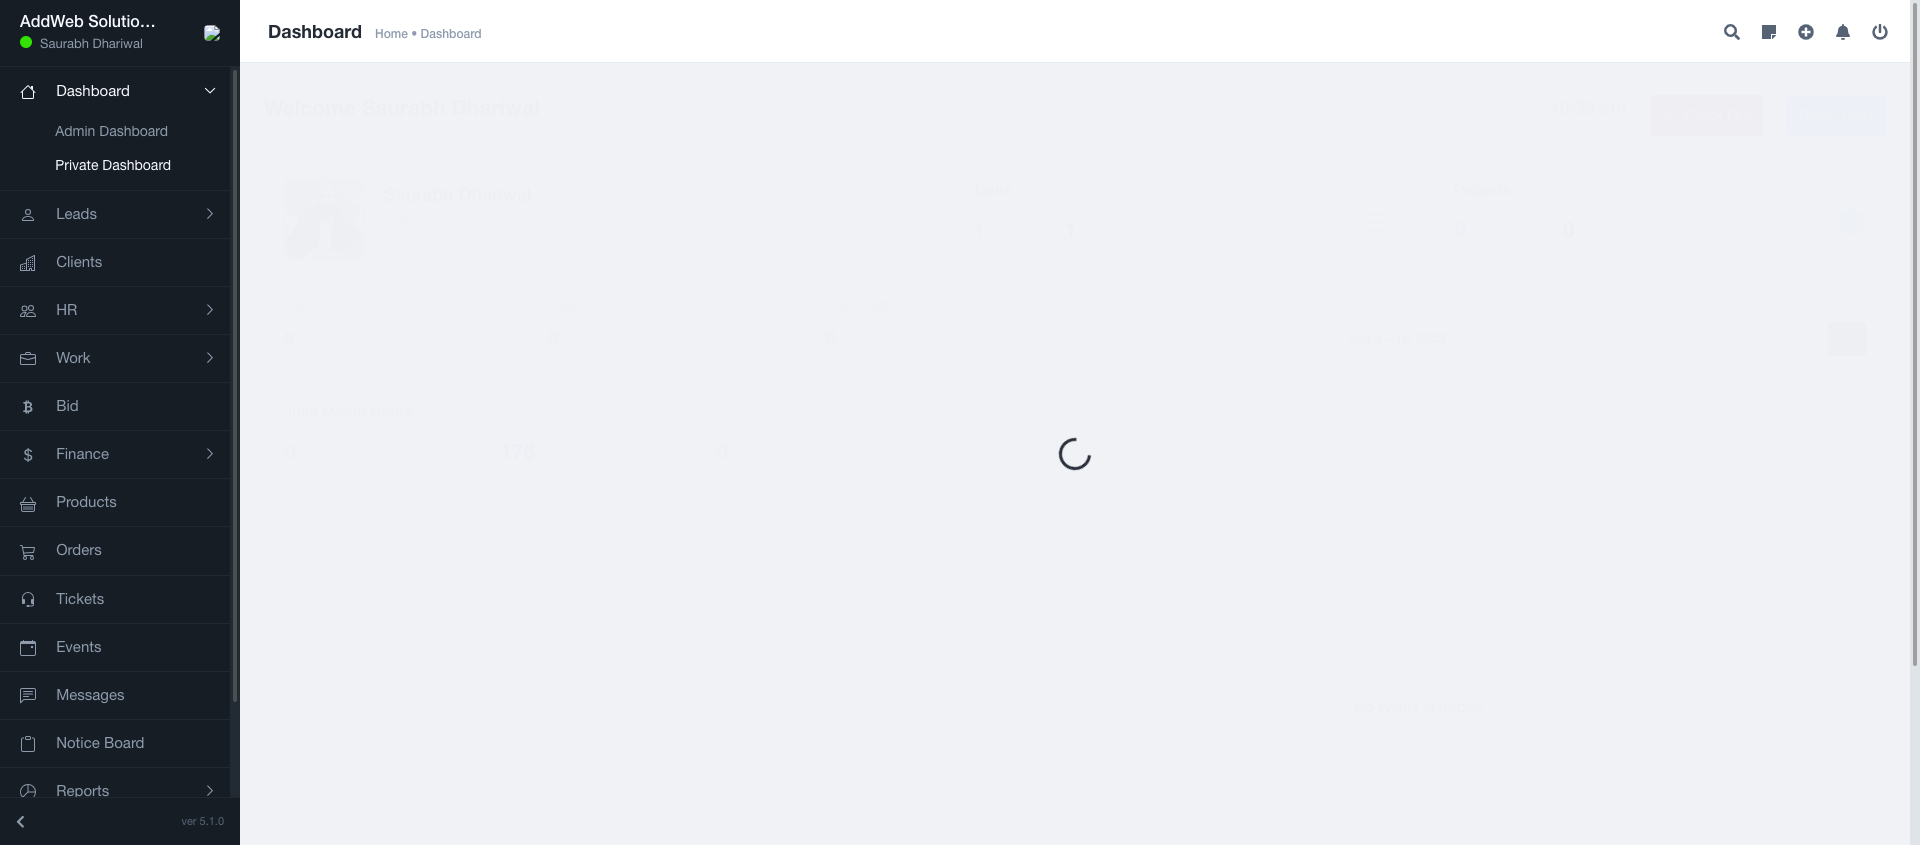
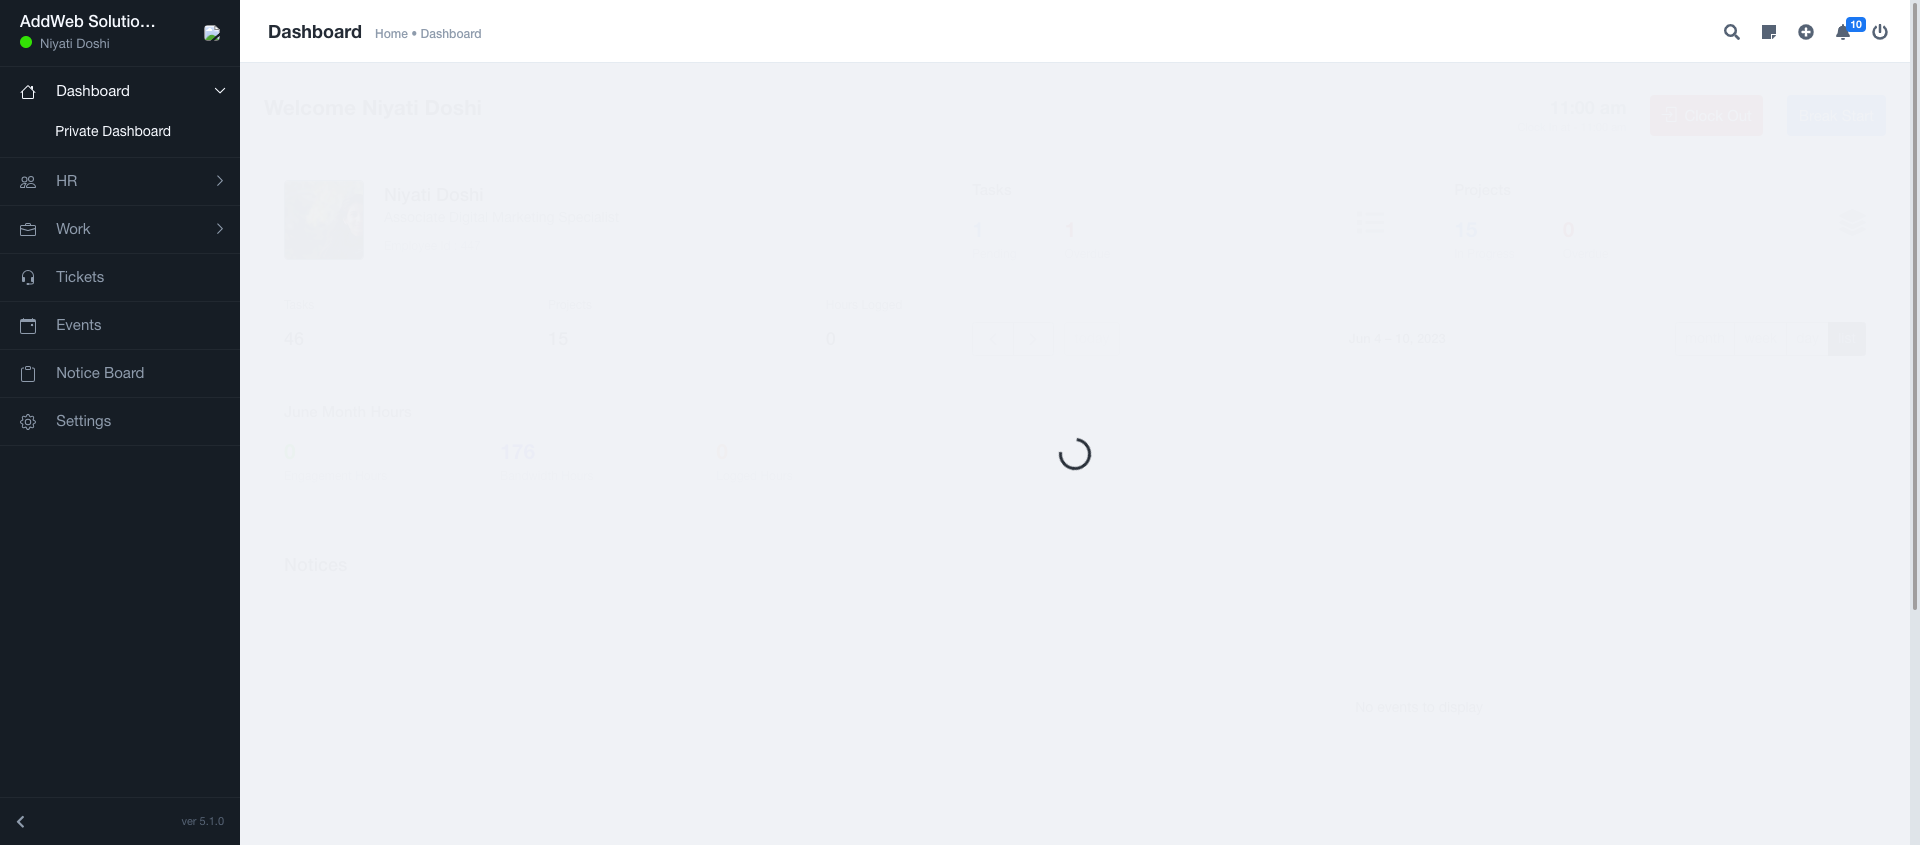
This is ClockInOut Automation commit

diff --git a/src/test/java/Steps/Hooks.java b/src/test/java/Steps/Hooks.java
@@ -1,19 +1,15 @@
 package Steps;
 
 import io.cucumber.java.After;
-import io.cucumber.java.AfterStep;
 import io.cucumber.java.Before;
-import io.cucumber.java.BeforeStep;
 import org.openqa.selenium.By;
 import org.openqa.selenium.Dimension;
 import org.openqa.selenium.WebDriver;
-import org.openqa.selenium.WebElement;
 import org.openqa.selenium.chrome.ChromeDriver;
 import org.openqa.selenium.chrome.ChromeOptions;
 
 public class Hooks
 {
-    public static CharSequence emailAddress;
     private WebDriver driver;
 
     @Before(order = 0)
@@ -25,12 +21,11 @@ public class Hooks
         System.setProperty("web-driver.chrome.driver", "/Users/addweb/Downloads/TimeLogWithSS/src/chromedriver");
         ChromeOptions options = new ChromeOptions();
         options.addArguments("--remote-allow-origins=*");
-        //options.addArguments("--headless"); //Headless mode
         driver = new ChromeDriver(options);
         driver.manage().window().setSize(new Dimension(1920, 1080));
         driver.get("https://ttstage.addwebprojects.com/");
         Thread.sleep(1000);
-        driver.findElement(By.xpath("/html/body/form/section/div/div/div/div/div[1]/input[1]")).sendKeys("saurabhdhariwal.com@gmail.com"); //niyati@addwebsolution.in, saurabhdhariwal.com@gmail.com
+        driver.findElement(By.xpath("/html/body/form/section/div/div/div/div/div[1]/input[1]")).sendKeys("niyati@addwebsolution.in"); //niyati@addwebsolution.in, saurabhdhariwal.com@gmail.com
         driver.findElement(By.xpath("/html/body/form/section/div/div/div/div/div[2]/div[1]/input")).sendKeys("addweb123");
         Thread.sleep(1000);
         driver.findElement(By.xpath("/html/body/form/section/div/div/div/div/div[2]/button")).click();

diff --git a/src/test/java/Steps/TimelogSteps.java b/src/test/java/Steps/TimelogSteps.java
@@ -1,6 +1,4 @@
 package Steps;
-
-import Steps.Hooks;
 import io.cucumber.java.en.And;
 import io.cucumber.java.en.Given;
 import io.cucumber.java.en.Then;
@@ -18,8 +16,6 @@ import java.text.SimpleDateFormat;
 import java.time.Duration;
 import java.util.Date;
 import java.util.List;
-
-import static Steps.Hooks.emailAddress;
 
 public class TimelogSteps {
 
@@ -114,7 +110,6 @@ public class TimelogSteps {
         System.out.println("Added Attendance module Screenshot is captured");
 
         //Search a particular employee
-
         // Get a System date
         DateFormat dateFormat = new SimpleDateFormat("d");
         Date systemDate = new Date();
@@ -144,7 +139,8 @@ public class TimelogSteps {
                 Thread.sleep(5000);
                 driver.findElement(By.xpath("/html/body/div[4]/div/div/div[1]/button")).click(); //close popup
                 break;
-            } else
+            }
+            else
             {
                 System.out.println("Not Matched");
             }
@@ -169,10 +165,10 @@ public class TimelogSteps {
         System.out.println("User is on HR Module");
 
         //Again move to Attendance module
-        Actions actions_Attendance = new Actions(driver);
+        Actions actionsAttendance = new Actions(driver);
         Thread.sleep(1000);
         WebElement attendanceSubMenuLink1 = driver.findElement(By.linkText("Attendance"));
-        actions_Attendance.moveToElement(attendanceSubMenuLink1).click().perform();
+        actionsAttendance.moveToElement(attendanceSubMenuLink1).click().perform();
         Thread.sleep(1000);
         System.out.println("User is on Attendance Module");
 
